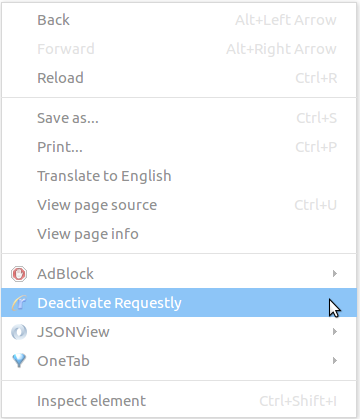
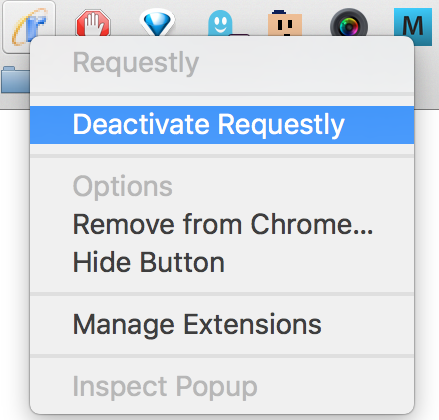
Updated activate/deactivate article: Toggle option removed from Chrome context menu

diff --git a/_posts/articles/2015-09-05-introducing-activate-deactivate-feature.md b/_posts/articles/2015-09-05-introducing-activate-deactivate-feature.md
@@ -9,19 +9,19 @@ comments: true
 share: true
 ---
 
-You can now Activate/Deactivate requestly with your right click anywhere on any page.
+You can Activate/Deactivate requestly with your right click on requestly icon present on Chrome toolbar.
 If you deactivate Requestly, your rules won't be affected but they won't be executed anymore.
 Similarly, When you activate Requestly, your active rules will get starting to execute.
 
 ## How to use
 
-You can use *Right click* on any page to see the option to deactivate requestly.
+You can use *Right click* on requestly icon in toolbar to see the option to deactivate requestly.
 When requestly is deactivated, same option converts to activate requestly.
 
 <figure>
   <center>
 	  <img src="{{ site.baseurl }}/images/deactivate-option-in-menu.png" alt="image">
-    <figcaption>Snapshot of right click context menu on google.com</figcaption>
+    <figcaption>Snapshot of right click context menu</figcaption>
   </center>
 </figure>
 
@@ -60,5 +60,5 @@ Once User deactivates Requestly, this information is stored inside `chrome.sync.
 So if User has deactivated Requestly on one machine, it would automatically deactivate on other synced Chrome browsers.
 
 ## Links
-- [Requestly Github Repo](http://github.com/blunderboy/requestly){:target='_blank'}
+- [Requestly Github Repo](https://github.com/requestly/chrome-extension){:target='_blank'}
 - [Requestly on Chrome Store](https://chrome.google.com/webstore/detail/requestly/mdnleldcmiljblolnjhpnblkcekpdkpa){:target='_blank'}

diff --git a/README.md b/README.md
@@ -1,3 +1,18 @@
 # Requestly Blog
 
-Work in Progress
+### How to install jekyll on MAC OSX 10.11
+
+Steps mentioned here: https://github.com/jekyll/jekyll/issues/3984
+
+    ruby -e "$(curl -fsSL https://raw.githubusercontent.com/Homebrew/install/master/install)"
+    brew install ruby
+    sudo gem install jekyll
+
+### How to Run site on local environment
+
+Added _config_dev.yml to override properties in _config.yml. We can run jekyll like this
+
+    jekyll serve --config _config.yml,_config_dev.yml
+
+In Dev environment we can specify some config which will override the default config.
+
